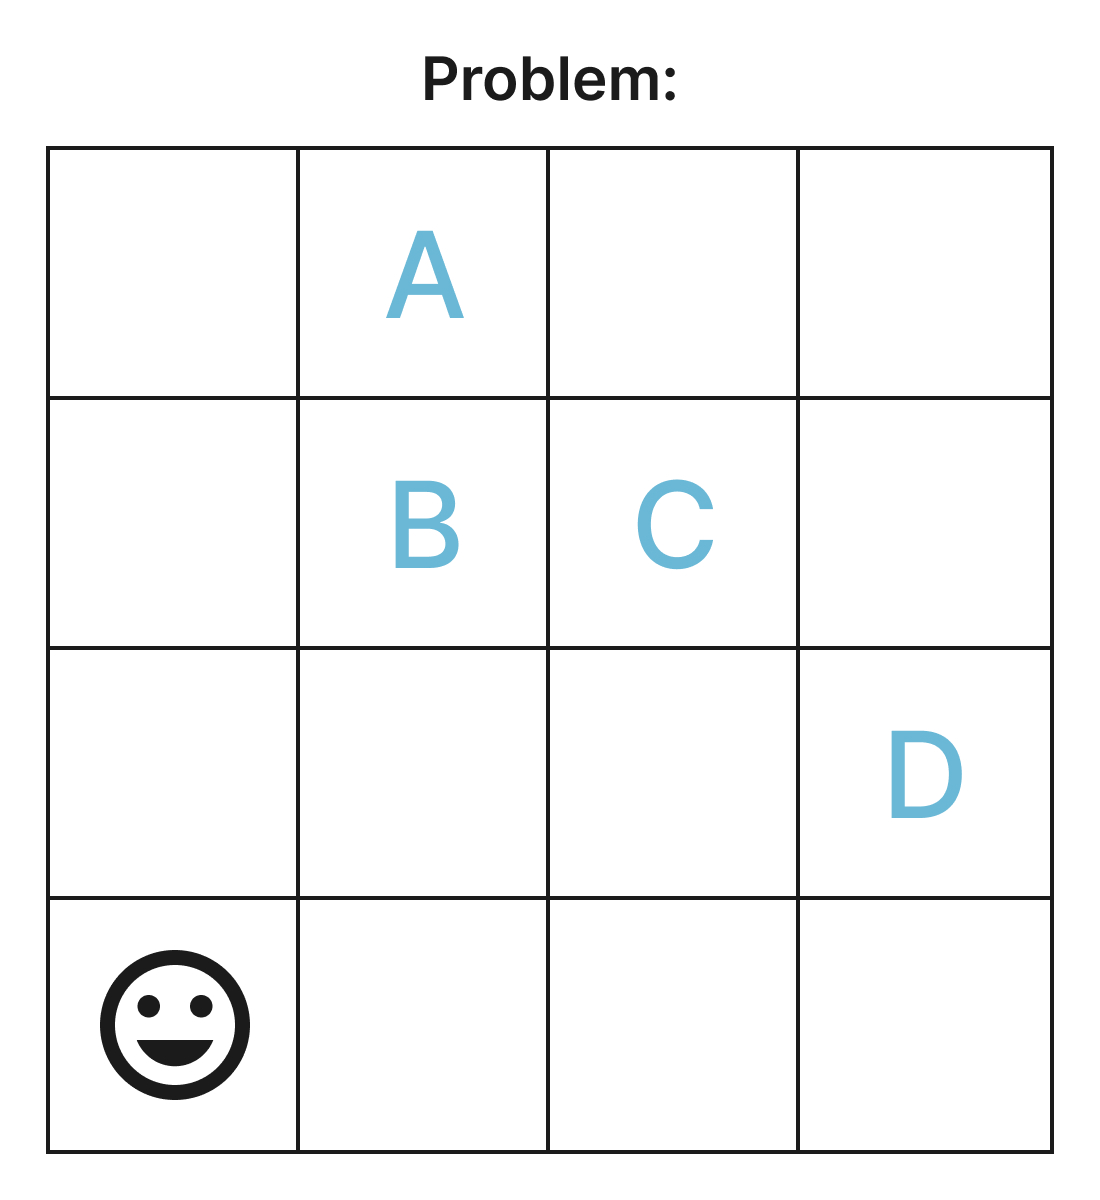
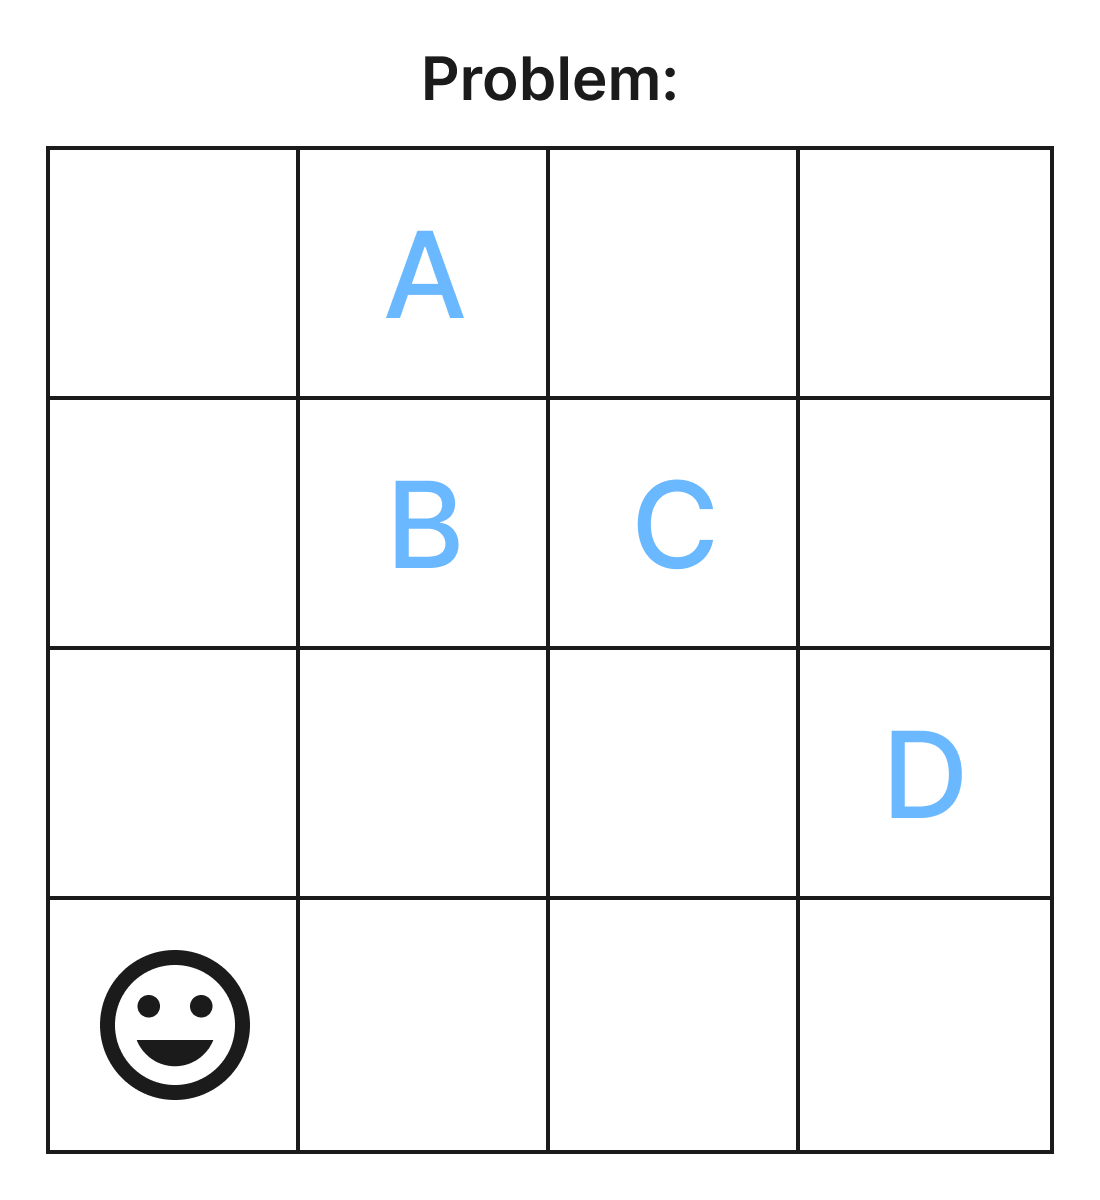
+ re-export puzzle 1 and 3 images + rework puzzle 3 example and problem formulation

diff --git a/puzzles/puzzle3.html b/puzzles/puzzle3.html
@@ -8,6 +8,7 @@
     <meta name="viewport" content="width=device-width, initial-scale=1.0">
     <!-- TODO: fill this in (down) -->
     <meta name="description" content="">
+    <script src="../js/iconify/1.0.7/iconify.min.js"></script>
 </head>
 
 <body>
@@ -34,8 +35,10 @@
 
     <div class="content-section my-4">
         <a class="btn btn-secondary map-link d-inline-flex">
-            <svg xmlns="http://www.w3.org/2000/svg" width="16" height="16" fill="currentColor" class="bi bi-map-fill my-auto mr-2" viewBox="0 0 16 16">
-                <path fill-rule="evenodd" d="M16 .5a.5.5 0 0 0-.598-.49L10.5.99 5.598.01a.5.5 0 0 0-.196 0l-5 1A.5.5 0 0 0 0 1.5v14a.5.5 0 0 0 .598.49l4.902-.98 4.902.98a.502.502 0 0 0 .196 0l5-1A.5.5 0 0 0 16 14.5V.5zM5 14.09V1.11l.5-.1.5.1v12.98l-.402-.08a.498.498 0 0 0-.196 0L5 14.09zm5 .8V1.91l.402.08a.5.5 0 0 0 .196 0L11 1.91v12.98l-.5.1-.5-.1z"/>
+            <svg xmlns="http://www.w3.org/2000/svg" width="16" height="16" fill="currentColor"
+                 class="bi bi-map-fill my-auto mr-2" viewBox="0 0 16 16">
+                <path fill-rule="evenodd"
+                      d="M16 .5a.5.5 0 0 0-.598-.49L10.5.99 5.598.01a.5.5 0 0 0-.196 0l-5 1A.5.5 0 0 0 0 1.5v14a.5.5 0 0 0 .598.49l4.902-.98 4.902.98a.502.502 0 0 0 .196 0l5-1A.5.5 0 0 0 16 14.5V.5zM5 14.09V1.11l.5-.1.5.1v12.98l-.402-.08a.498.498 0 0 0-.196 0L5 14.09zm5 .8V1.91l.402.08a.5.5 0 0 0 .196 0L11 1.91v12.98l-.5.1-.5-.1z"/>
             </svg>
             Back to Map
         </a>
@@ -43,30 +46,37 @@
 
     <!-- Puzzle Display + Info -->
     <div class="content-section mt-0">
-    <div id="puzzle-display" class="row hover-shadow border border-accent">
-        <div id="puzzle-description" class="col-5">
-            <small class="text-muted">Puzzle 3</small>
-            <h5>Routes!</h5>
-            <p>As a mailman, you need to walk from the Post Office (<span class="iconify" data-icon="bi:house-door-fill" data-inline="false"></span>) to a certain house to deliver your letters.
-                There's
-                only 1 issue - each road requires energy to walk through! Remember, you want to use the minimum amount
-                of
-                energy possible while delivering your letters.</p>
-            <p>Each time you walk along a road <span class="font-italic">(one of the lines)</span> you have to use up the amount of energy indicated by
-                the number on that line.</p>
-            <hr>
-            <p>Let's try an example:</p>
-            <p>You have a letter addressed for House A. To get from the Post Office (🏠) to House A, here are 3
-                potential routes <span class="font-italic">(there are tons more!)</span>.</p>
-            <p>Route 1: 🏠 → A <span class="font-italic">(Uses 3 energy)</span></p>
-            <p>Route 2: 🏠 → C → A <span class="font-italic">(Uses 2 energy)</span></p>
-            <p>Route 3: 🏠 → C → E → A <span class="font-italic">(Uses 5 energy)</span></p>
-            <p>So route 2 wins!</p>
+        <div id="puzzle-display" class="row hover-shadow border border-accent">
+            <div id="puzzle-description" class="col-7">
+                <small class="text-muted">Puzzle 3</small>
+                <h5>Routes!</h5>
+                <p>As a mailman, you need to walk from the Post Office
+                    (<span class="iconify text-secondary h5" data-icon="bi:house-door-fill" data-inline="false"></span>)
+                    to a certain house to deliver your letters.
+                    There's only 1 issue - each road requires energy to walk through! Remember, you want to use the
+                    minimum amount of energy possible while delivering your letters.</p>
+                <p>Each time you walk along a road <span class="font-italic">(one of the lines)</span> you have to use
+                    up the amount of energy indicated by the number on that line.</p>
+            </div>
+            <div id="puzzle-image" class="d-flex flex-column justify-content-center col-5">
+                <img src="../assets/img/Puzzle%203%20-%20Routes.jpg" alt="Puzzle Image" class="row mx-0"/>
+            </div>
         </div>
-        <div id="puzzle-image" class="d-flex flex-column justify-content-center col-7">
-            <img src="../assets/img/Puzzle%203%20-%20Routes.jpg" alt="Puzzle Image" class="row mx-0"/>
+
+        <div class="puzzle-display row hover-shadow border border-accent mt-4">
+            <div class="puzzle-description col-7">
+                <h5>Example:</h5>
+                <p>You have a letter addressed for <span class="font-weight-bold text-secondary">Ann</span>. To get from the Post Office
+                    (<span class="iconify text-secondary h5" data-icon="bi:house-door-fill" data-inline="false"></span>)
+                    to Ann's House, here are 2 potential routes <span class="font-italic">(there are tons more!)</span>.</p>
+                <p>Route 1: <span class="iconify text-secondary h5" data-icon="bi:house-door-fill" data-inline="false"></span> → Ann's House <span class="font-italic">(Uses 3 energy)</span></p>
+                <p>Route 2: <span class="iconify text-secondary h5" data-icon="bi:house-door-fill" data-inline="false"></span> → Cam's House → Ann's House <span class="font-italic">(Uses 2 energy)</span></p>
+                <p>So route 2 wins!</p>
+            </div>
+            <div class="puzzle-image d-flex flex-column justify-content-center col-5">
+                <img src="../assets/img/Puzzle%203%20-%20Example.jpg" alt="Puzzle Image" class="row mx-0"/>
+            </div>
         </div>
-    </div>
     </div>
 
     <!-- Question + Answers Form -->
@@ -86,8 +96,10 @@
         </form>
         <button type="submit" class="btn btn-primary">Submit</button>
         <a id="success-map-link" class="btn btn-secondary map-link d-none">
-            <svg xmlns="http://www.w3.org/2000/svg" width="16" height="16" fill="currentColor" class="bi bi-map-fill my-auto mr-2" viewBox="0 0 16 16">
-                <path fill-rule="evenodd" d="M16 .5a.5.5 0 0 0-.598-.49L10.5.99 5.598.01a.5.5 0 0 0-.196 0l-5 1A.5.5 0 0 0 0 1.5v14a.5.5 0 0 0 .598.49l4.902-.98 4.902.98a.502.502 0 0 0 .196 0l5-1A.5.5 0 0 0 16 14.5V.5zM5 14.09V1.11l.5-.1.5.1v12.98l-.402-.08a.498.498 0 0 0-.196 0L5 14.09zm5 .8V1.91l.402.08a.5.5 0 0 0 .196 0L11 1.91v12.98l-.5.1-.5-.1z"/>
+            <svg xmlns="http://www.w3.org/2000/svg" width="16" height="16" fill="currentColor"
+                 class="bi bi-map-fill my-auto mr-2" viewBox="0 0 16 16">
+                <path fill-rule="evenodd"
+                      d="M16 .5a.5.5 0 0 0-.598-.49L10.5.99 5.598.01a.5.5 0 0 0-.196 0l-5 1A.5.5 0 0 0 0 1.5v14a.5.5 0 0 0 .598.49l4.902-.98 4.902.98a.502.502 0 0 0 .196 0l5-1A.5.5 0 0 0 16 14.5V.5zM5 14.09V1.11l.5-.1.5.1v12.98l-.402-.08a.498.498 0 0 0-.196 0L5 14.09zm5 .8V1.91l.402.08a.5.5 0 0 0 .196 0L11 1.91v12.98l-.5.1-.5-.1z"/>
             </svg>
             Back to Map
         </a>

diff --git a/thanks.html b/thanks.html
@@ -3,7 +3,7 @@
 
 <head>
     <meta charset="UTF-8"/>
-    <title>Puzzles! - Landing</title>
+    <title>Puzzles! - Thanks!</title>
     <link href="./scss/styles.css" rel="stylesheet">
     <meta name="viewport" content="width=device-width, initial-scale=1.0">
     <meta name="description" content="Computational thinking puzzles for children">
